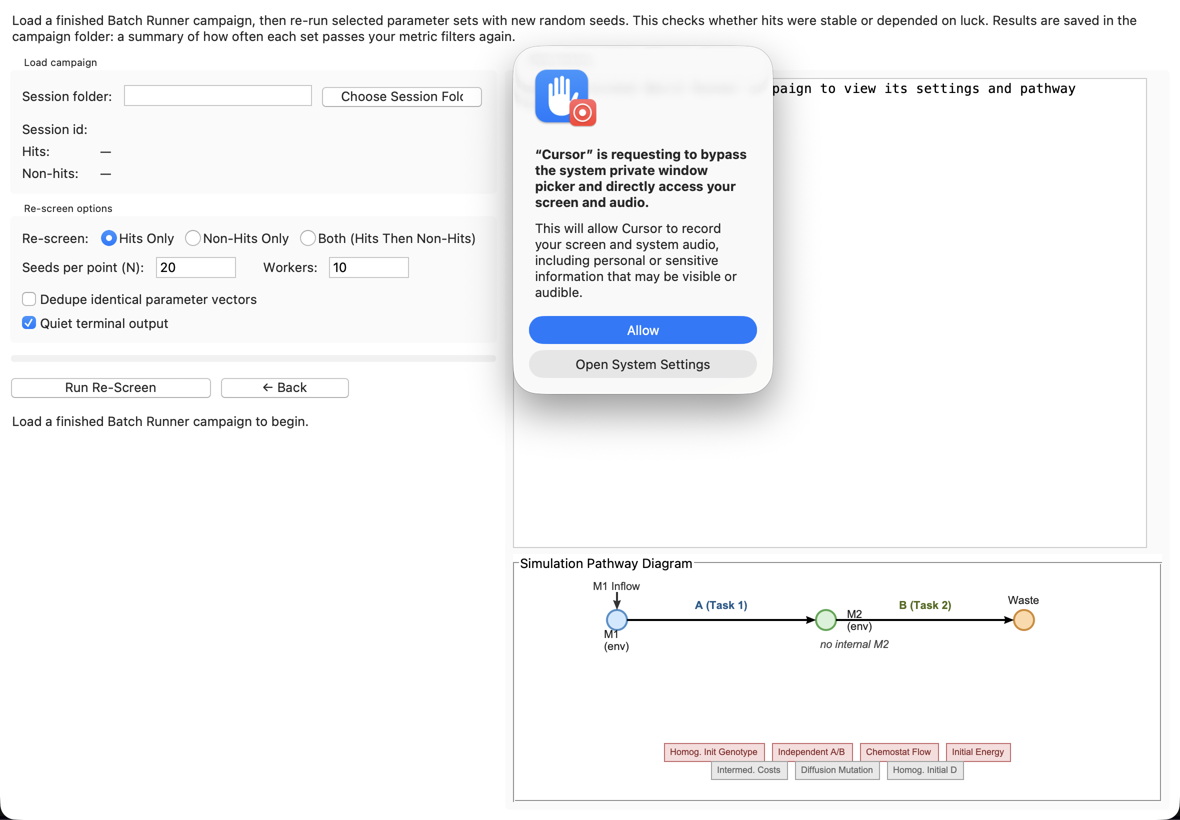
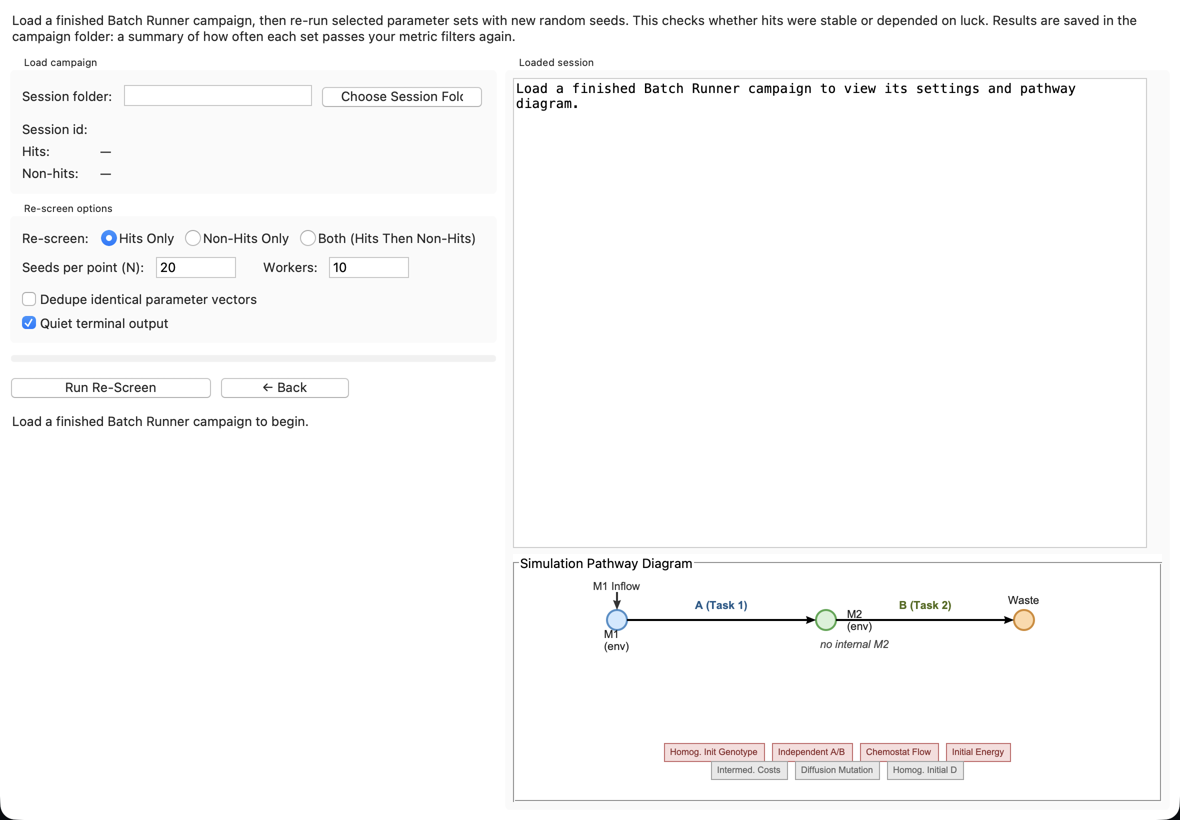
Publish MCCP_Enzymes Minimal bundle.
Synced from MCCP_Enzymes/tools/publish_minimal_to_github.sh

Changed region(s): [[0.3966, 0.061, 0.6712, 0.5183]]

diff --git a/README.md b/README.md
@@ -47,9 +47,9 @@ Run one chemostat simulation at a time, inspect trajectories, and compute metric
 
 ### Layout
 
-- **Left column** — simulation parameters, toggles (diffusion, chemostat flow, death/duplication modes, traits), and **Run Simulation**.
-- **Center** — live plots: trait heatmaps, population size, energy, metabolite flux, deaths/duplications per generation, and optional M1/M2 environment panels.
-- **Right column** — metric selector, **Run** (evaluate the chosen metric on the last run), optional **Sweep Seeds** (repeat the same settings with different seeds), and a pathway diagram that reflects your toggles.
+- **Left column** — simulation parameters, toggles (diffusion, chemostat flow, death/duplication modes, traits), **Run Simulation**, and status/progress.
+- **Center column** — tabbed plots. **Main Plots** shows trait heatmaps, population size, mean energy, metabolite flux, and deaths/duplications per generation. Other tabs add **M1 Metabolite**, **M2 Metabolite**, **Budgets**, and **Budget 2** detail views. The rightmost tab, **Metrics**, holds the metric selector, **Run** (score the last simulation), optional **Sweep Seeds** (repeat the same settings with different seeds), and seed-sweep output.
+- **Right column** — diagnostic figures: death and duplication probability curves vs energy, the investment-function plot, and a **Simulation Pathway Diagram** that updates with your toggles.
 
 ### Typical workflow
 
@@ -57,8 +57,8 @@ Run one chemostat simulation at a time, inspect trajectories, and compute metric
 2. Choose transport and life-cycle toggles (e.g. pooled vs diffusion-limited nutrients, binary vs constant death).
 3. Optionally enter a **Random Seed** for reproducibility (leave blank for a random seed each run).
 4. Click **Run Simulation** and wait for the progress bar to finish.
-5. Read plots in the center panel; hover tooltips on labels explain individual knobs.
-6. Pick a **Metric** on the right and click **Run** to score the finished run (e.g. task specialization, trait diversity).
+5. Browse the center tabs (**Main Plots** first, then M1/M2 or budget tabs as needed). Hover tooltips on labels explain individual knobs.
+6. Open the **Metrics** tab, pick a metric, and click **Run** to score the finished run (e.g. task specialization, trait diversity).
 
 Use this app to build intuition for a parameter set before scaling up to batch or optimization workflows.
 
